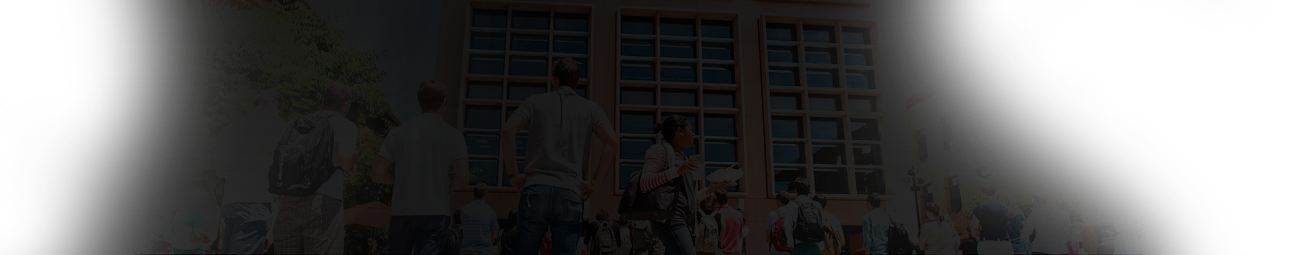
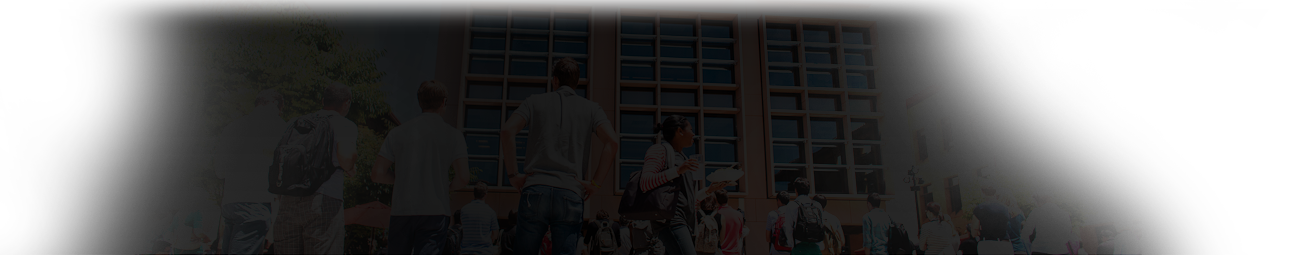
Feature event background image update.

Changed region(s): [[0.0615, 0.0, 0.7692, 0.1098]]

diff --git a/css/style.css b/css/style.css
@@ -7640,7 +7640,7 @@ fieldset.collapsible .fieldset-legend {
 }
 
 .page-events #banner .section {
-  background: url('../images/bg-banner-eventcal.png') no-repeat -70% 40%;
+  background: url('../images/bg-banner-eventcal.png') no-repeat -70% 100%;
   overflow: hidden;
   *zoom: 1;
 }

diff --git a/sass/revamp-design/_banner.sass b/sass/revamp-design/_banner.sass
@@ -54,7 +54,7 @@
 // EVENT LANDING
 .page-events
   #banner .section
-    background: image_url("bg-banner-eventcal.png") no-repeat -70% 40%
+    background: image_url("bg-banner-eventcal.png") no-repeat -70% 100%
     +clearfix
     +breakpoint($bp-portrait-max)
       height: 50px
